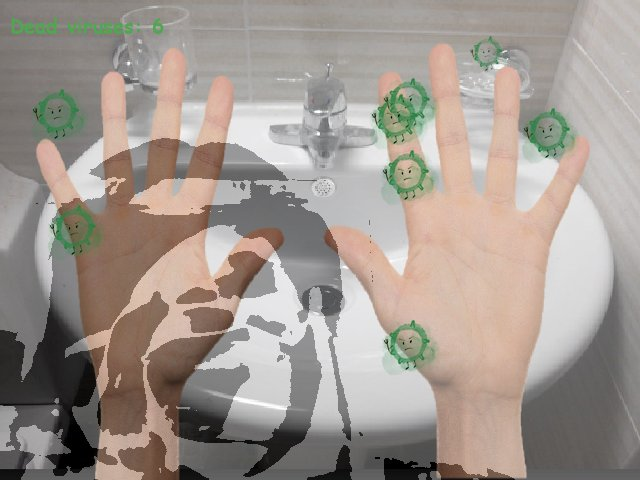
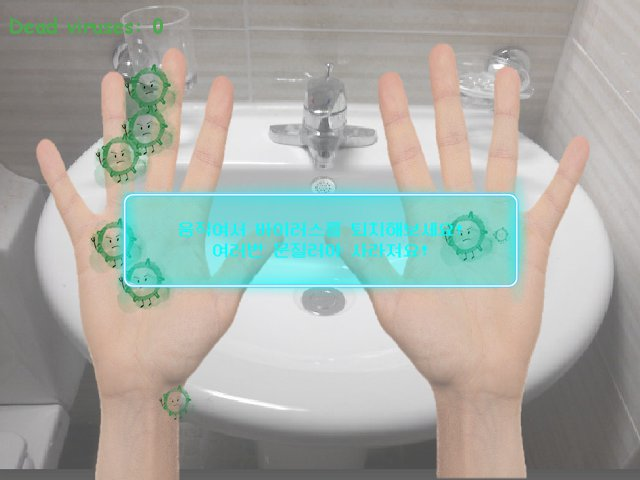
fixed virus score

diff --git a/NEW_INTEGRATE/funcVirus.py b/NEW_INTEGRATE/funcVirus.py
@@ -229,7 +229,6 @@ class VirusFunc:
         if(len(exists[0])==0):
             #안내창 보여주기
             self.screen.blit(self.ins,(108,176))
-            self.d_virus = 0
             self.chan1.set_volume(1.0, 1.0)
         else:
             a = thresh_img.copy()
